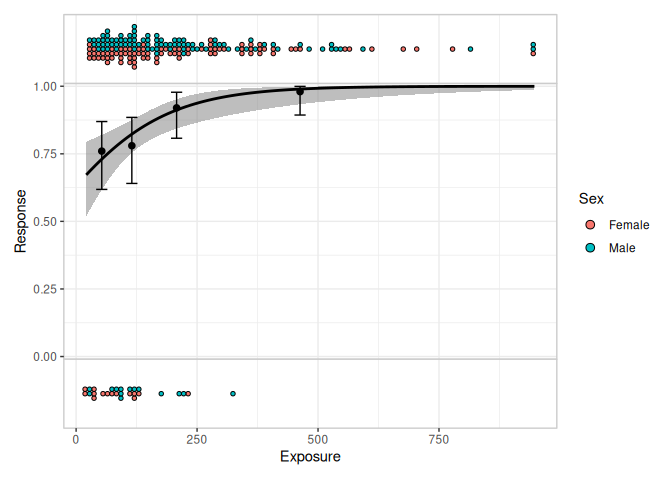
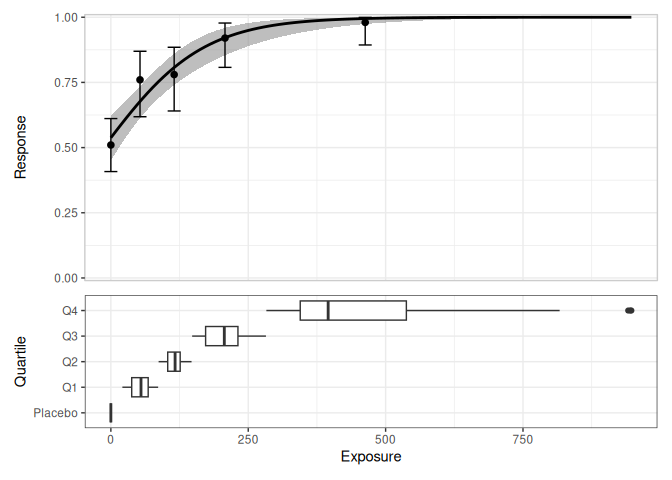
plots can include boxplots

diff --git a/README.md b/README.md
@@ -36,18 +36,18 @@ library(tibble)
 
 lr_data
 #> # A tibble: 300 × 6
-#>       id  dose exposure exposure_quartile response sex   
-#>    <int> <dbl>    <dbl> <fct>                <dbl> <fct> 
-#>  1     1   100    148.  Q3                       1 Male  
-#>  2     2   100     79.7 Q1                       1 Male  
-#>  3     3   200    212.  Q3                       1 Male  
-#>  4     4   200    236.  Q3                       0 Female
-#>  5     5     0      0   Placebo                  1 Female
-#>  6     6   200     71.0 Q1                       1 Male  
-#>  7     7   100    173.  Q3                       1 Male  
-#>  8     8   100    123.  Q2                       0 Female
-#>  9     9     0      0   Placebo                  0 Male  
-#> 10    10   200    165.  Q3                       1 Male  
+#>       id  dose exposure quartile response sex   
+#>    <int> <dbl>    <dbl> <fct>       <dbl> <fct> 
+#>  1     1   100    148.  Q3              1 Male  
+#>  2     2   100     79.7 Q1              1 Male  
+#>  3     3   200    212.  Q3              1 Male  
+#>  4     4   200    236.  Q3              0 Female
+#>  5     5     0      0   Placebo         1 Female
+#>  6     6   200     71.0 Q1              1 Male  
+#>  7     7   100    173.  Q3              1 Male  
+#>  8     8   100    123.  Q2              0 Female
+#>  9     9     0      0   Placebo         0 Male  
+#> 10    10   200    165.  Q3              1 Male  
 #> # ℹ 290 more rows
 
 mod <- lr_model(response ~ exposure, lr_data)
@@ -65,13 +65,28 @@ mod
 #> Residual Deviance: 283.9     AIC: 287.9
 
 lr_data |> 
-  filter(exposure > 0) |> 
   lr_plot(exposure, response) |> 
   lr_plot_add_quantiles(bins = 4) |> 
-  lr_plot_add_strips(color = sex) |> 
+  lr_plot_add_boxplot(group_by = quartile) |> 
   print()
 #> Warning: annotation$theme is not a valid theme.
 #> Please use `theme()` to construct themes.
 ```
 
 <img src="man/figures/README-example-1.png" width="100%" />
+
+``` r
+
+lr_data |> 
+  filter(exposure > 0) |> 
+  lr_plot(exposure, response) |> 
+  lr_plot_add_quantiles(bins = 4) |> 
+  lr_plot_add_strips(color_by = sex) |> 
+  lr_plot_add_boxplot(group_by = quartile) |> 
+  lr_plot_add_boxplot(group_by = sex) |> 
+  print(box_height = 3)
+#> Warning: annotation$theme is not a valid theme.
+#> Please use `theme()` to construct themes.
+```
+
+<img src="man/figures/README-example-2.png" width="100%" />
